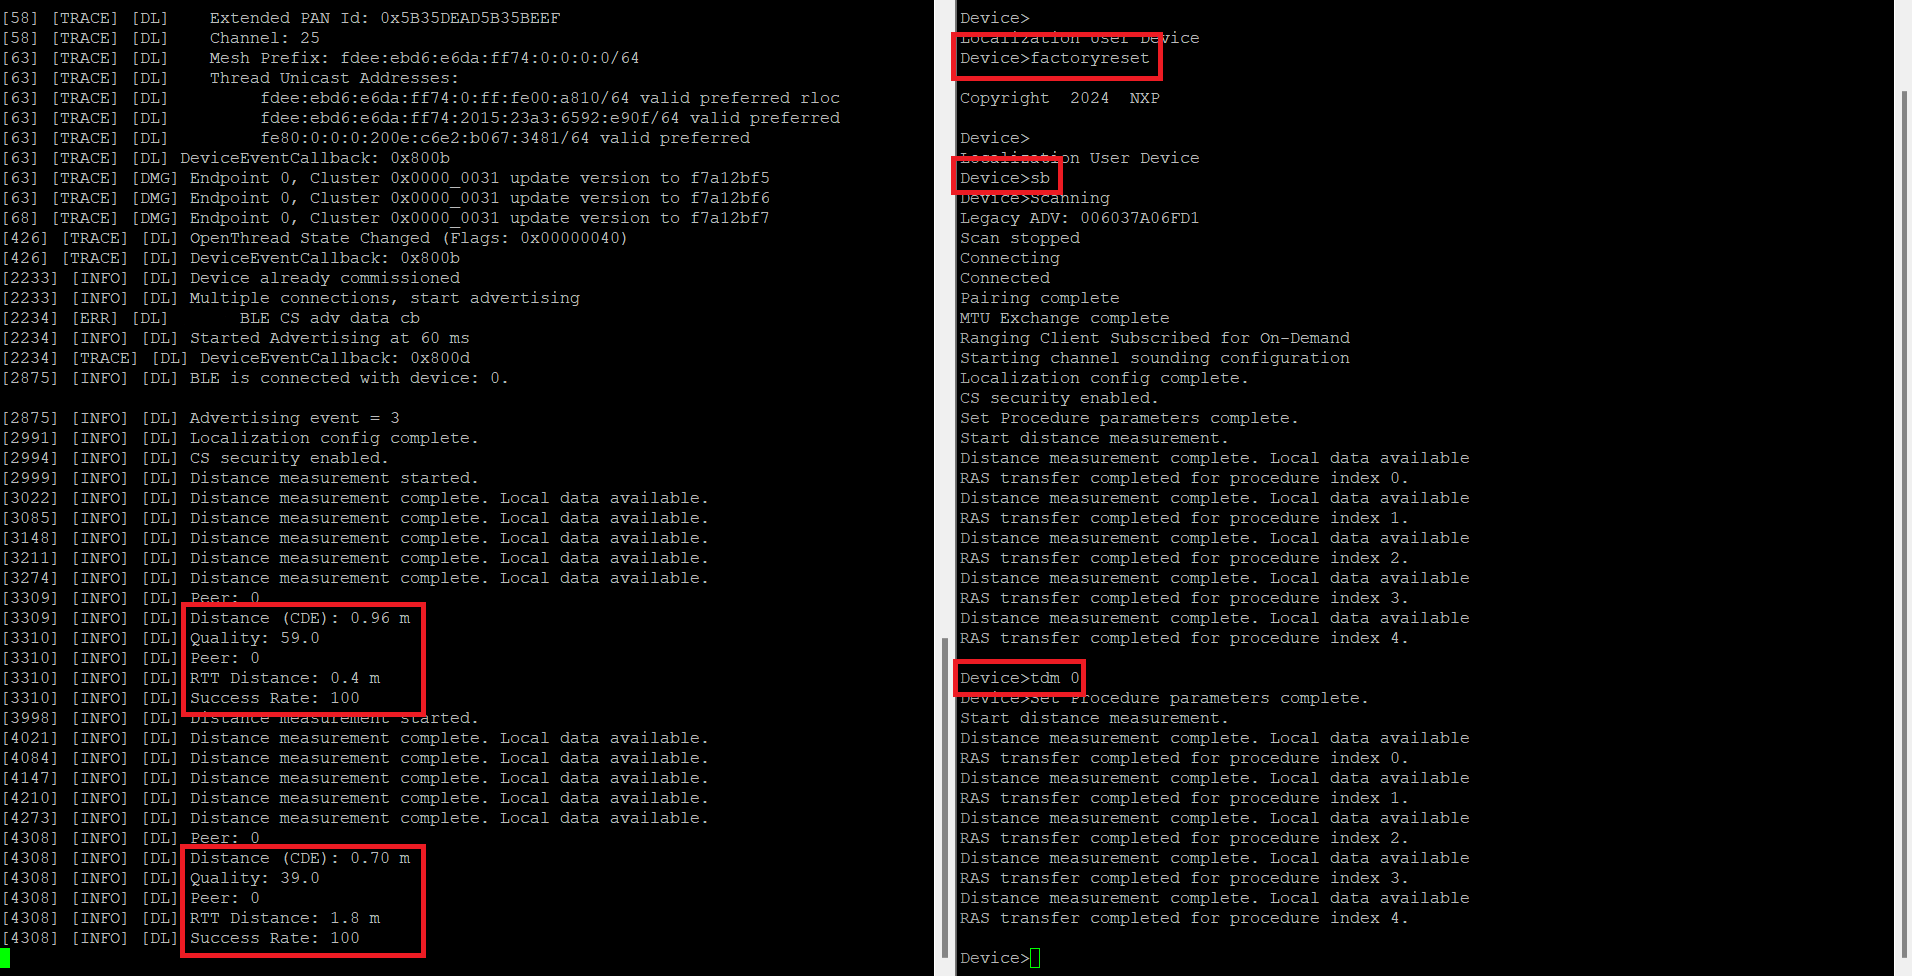
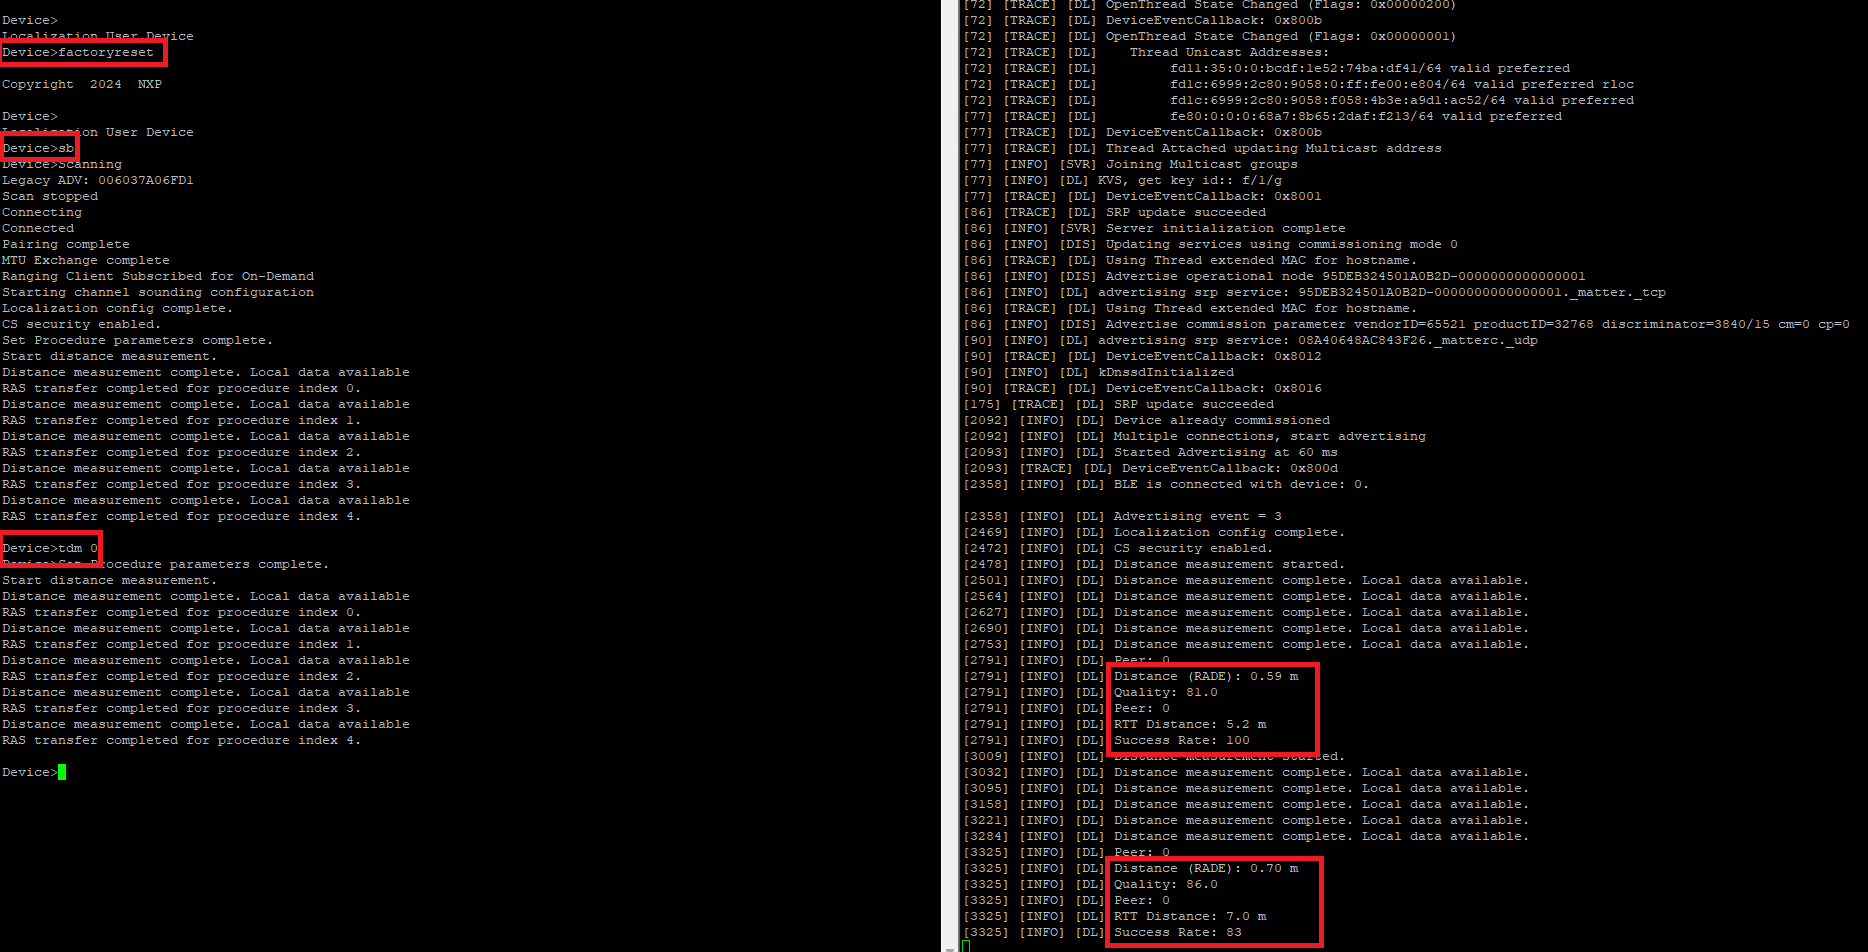
[light-switch-app-ble-cs][readme][images] Update readme and image with BLE CS Rade

Changed region(s): [[0.4657, 0.0, 1.0, 1.0], [0.0, 0.0, 0.4347, 1.0], [0.2173, 0.8834, 0.2484, 0.9748]]

diff --git a/light-switch-app-ble-cs/README.md b/light-switch-app-ble-cs/README.md
@@ -61,9 +61,9 @@ and test it can be found in the common readme for NXP platforms :
 ## Matter BLE CS example
 
 - Connect the MCXW72 light-switch-app-ble-cs device and the MCXW72 loc_user_device_bm and open serial terminals for both.
-- Commission the MCXW72 light-switch-app-ble-cs device into the Matter fabric (press SW2). After this step sometimes, the board needs to be restarted.
+- Commission the MCXW72 light-switch-app-ble-cs device into the Matter fabric (press SW2).
 - Start BLE advertising again on MCXW72 light-switch-app-ble-cs (press SW2).
-- On MCXW72 loc_user_device_bm console type `factoryreset`, `sb`.
+- On MCXW72 loc_user_device_bm console type `factoryreset` (optional after first connection), `sb`.
 - The distance measurements will appear on the MCXW72 light-switch-app-ble-cs logs.
 - On MCXW72 loc_user_device_bm console type `tdm 0` to trigger further distance measurements.
 - [Example log](./main/images/distance-measurements.png)
